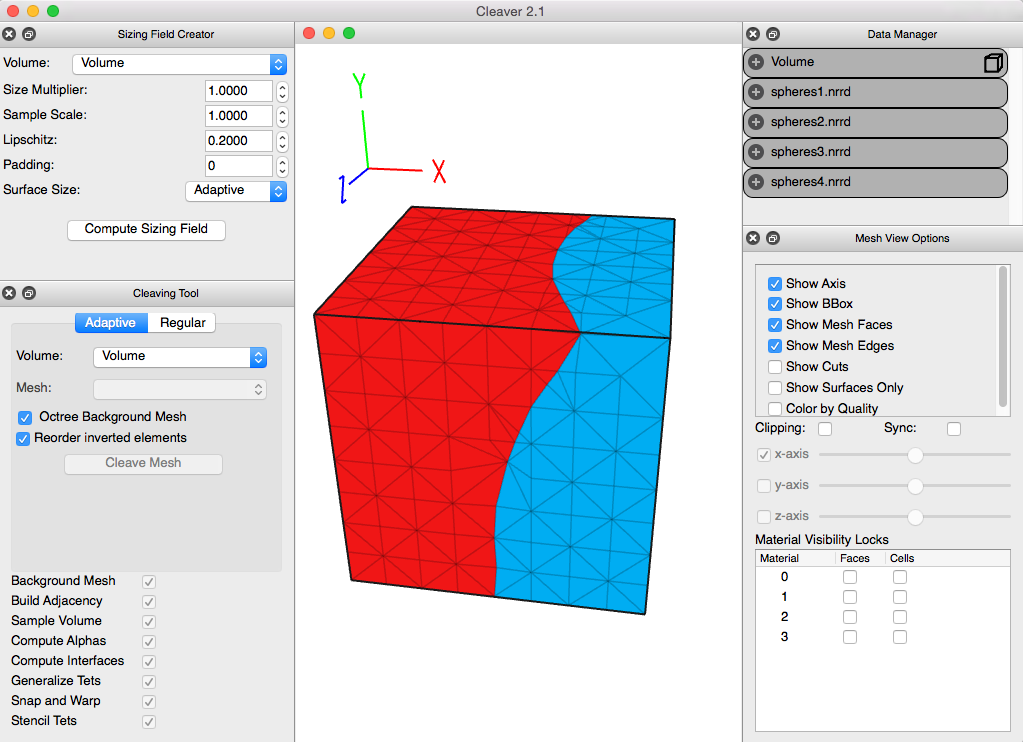
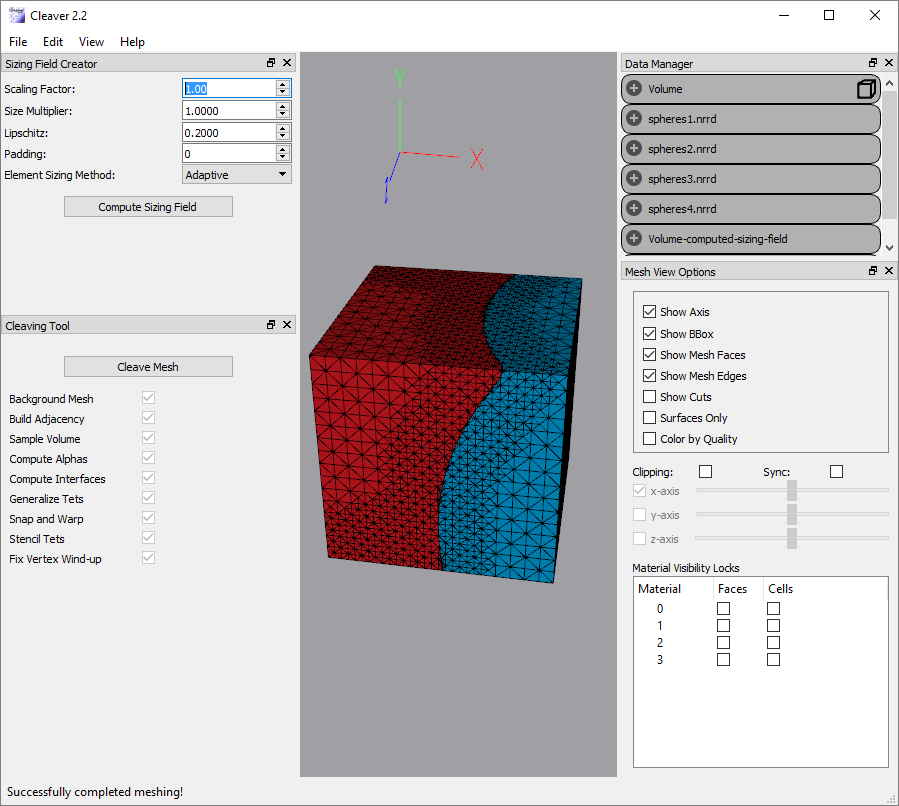
report angles to status bar. update images and readme. lock cells isn't quite right

diff --git a/src/gui/Application/ViewWidgets/MeshWindow.cpp b/src/gui/Application/ViewWidgets/MeshWindow.cpp
@@ -1585,15 +1585,14 @@ void MeshWindow::build_output_vbos()
       if (m2 < (int)m_bMaterialCellLock.size() && m_bMaterialCellLock[m2])
         force = true;
     }
-    if (m1 == m2) {
-      force = false;
-    }
+    //if (m1 == m2) {
+    //  force = false;
+    //}
     if (surface) {
       force = (m2 < (int)m_bMaterialFaceLock.size() && m_bMaterialFaceLock[m2]) ||
         (m1 < (int)m_bMaterialFaceLock.size() && m_bMaterialFaceLock[m1]);
     }
-    if (m_bClipping)
-    {
+    if (m_bClipping) {
       cleaver::vec3 n(m_4fvClippingPlane[0], m_4fvClippingPlane[1], m_4fvClippingPlane[2]);
       float d = m_4fvClippingPlane[3];
 

diff --git a/src/gui/Application/MainWindow.cpp b/src/gui/Application/MainWindow.cpp
@@ -311,8 +311,8 @@ void MainWindow::computeMeshAngles()
   cleaver::TetMesh *mesh = this->mesher_.getTetMesh();
   if(mesh) {
     mesh->computeAngles();
-    std::cout << "Min Angle: " << mesh->min_angle << " degrees." << std::endl;
-    std::cout << "Max Angle: " << mesh->max_angle << " degrees." << std::endl;
+    this->handleMessage("Min Angle: " + std::to_string(mesh->min_angle) + " degrees." +
+      "Max Angle: " + std::to_string(mesh->min_angle) + " degrees.");
   }
 }
 //*************Custom file dialog for segmentation check

diff --git a/README.md b/README.md
@@ -80,10 +80,10 @@ cmake ../src
 make
 ```
 
-**NOTE**: You may need to set your Qt build variables:
+**NOTE**: You may need to set your Qt/ITK build variables:
 
 ```bash
-cmake -DQt5Widgets_DIR="/usr/lib/Qt/5.3.0/gcc/lib/cmake/Qt5Widgets" -DQt5OpenGL_DIR="/usr/lib/Qt/5.3.0/gcc/lib/cmake/Qt5OpenGL"../src 
+cmake -DQt5Widgets_DIR="/path/to/Qt5Widgets" -DQt5OpenGL_DIR="/path/to/Qt5OpenGL" -DITK_DIR="/path/to/ITK" ../src 
 ```
 
 <h4>Windows</h4>
@@ -103,7 +103,7 @@ qt-creator, or pass library paths directly to command
 line like below, replacing paths with your library locations:<br/>
 
 ```bash
-cmake -G "NMake Makefiles" -DQt5Widgets_DIR="c:\Qt\5.3.0\5.3\msvc2013_opengl\lib\cmake\Qt5Widgets" -DQt5OpenGL_DIR="c:\Qt\5.3.0\5.3\msvc2013_opengl\lib\cmake\Qt5OpenGL" ..\src
+cmake -G "NMake Makefiles" cmake -DQt5Widgets_DIR="C:/path/to/Qt5Widgets" -DQt5OpenGL_DIR="C:/path/to/Qt5OpenGL" -DITK_DIR="C:/path/to/ITK" ..\src 
 ```
 
 <br/>
@@ -150,51 +150,39 @@ Command line flags:
                                   matlab, vtk, ply [Surface mesh only])
   -t [ --strict ]                 warnings become errors
   -S [ --segmentation ]           The input file is a segmentation file.
+  -B [ --blend_sigma ] arg        blending sigma for input(s) to remove alias
+                                  artifacts.
 ```
 <h3>Graphical Interface</h3>
 You can run the GUI from the command line, or by double-clicking it in a folder.
-<code> bin/cleaver-gui</code><br/>
+<code> gui/cleaver-gui</code><br/>
 You should see a window similar to this:<br/>
 <img src="https://raw.githubusercontent.com/SCIInstitute/Cleaver2/master/src/gui/Resources/application.png"><br/>
 Load the spheres in <code>src/test/test_data/input</code> 
 either with <code>ctrl+v</code> or <code>File -> Load Volume</code>,
-or load your own indicator functions or segmentation file (if included in the build).<br/>
+or load your own indicator functions or segmentation file. <br/>
+*Dialog Indicator Function Check* Click the check in the dialog if you are 
+importing individual indicator functions.<br/>
+*Blending Function Sigma* Choose a sigma for pre-process smoothing either
+your segmentation labels or indicator functions to avoid stair-step aliasing.<br/>
 **Sizing Field Creator**<br/>
 This tool allows a user to set parameters for the cleaving sizing field.<br/>
-*Volume* If you have loaded multiple volumes, you can switch between them here for the sizing field.<br/>
-*Size Multiplier* This is the multiplier for the sizing field creation.<br/>
-*Sample Scale* This is a tool to alter the sampling size of a volume. 
+*Scale Factor* This is a tool to alter the sampling size of a volume. 
 Smaller sampling creates coarser meshes faster.<br/>
+*Size Multiplier* This is the multiplier for the sizing field creation.<br/>
 *Lipschitz* This is the grading of the sizing field. <br/>
 *Padding* Added a volume buffer around the data. This is useful when volumes intersect near the boundary.<br/>
-*Surface Size* Select whether to adaptively resize tets for more detail at volume interactions, or 
+*Element Sizing Method* Select whether to adaptively resize tets for more detail at volume interactions, or 
 to keep tet sizes constant based on the sample scale.<br/>
 *Compute Sizing Field* Once you have your desired parameters, click this to create the sizing field. 
 This is assuming a volume has been loaded (ctrl+v or File->Import Volume). New information will be added 
 to the Data Manager at each step. If a sizing field is not created here, a default one will be 
 created for you automatically before cleaving. <br/>
 <img src="https://raw.githubusercontent.com/SCIInstitute/Cleaver2/master/src/gui/Resources/mesh.png"><br/>
-**Cleaving Tool : Adaptive**<br/>
-This tab runs the new adaptive technique of cleaving. Smaller tets occur near volume interactions 
-for more detail.<br/>
-*Volume* If you have loaded multiple volumes, you can switch between them here for cleaving.<br/>
-*Mesh* This feature is not currently available.<br/>
-*Octree Background Mesh* Check this to allow for octree creation of the background mesh.<br/>
-*Reorder inverted elements* Check this to ensure tets (after cleaving) have the proper vertex order.<br/>
+**Cleaving Tool**<br/>
+This tab runs the cleaving algorithm and displays steps that have completed.
 *Cleave Mesh* Run the cleaving algorithm. The steps are shown as complete with the check below. 
-The rendering window will also update with each step.<br/>
-**Cleaving Tool : Regular**<br/>
-This tab is for cleaving in a manner similar to Cleaver1. The sizing field is constant.<br/>
-*Volume* If you have loaded multiple volumes, you can switch between them here for cleaving.<br/>
-*Alpha Short* This is the distance (as a percent/100) of a short edge along a tet for which violations
-will be considered for warping.<br/>
-*Alpha Long* This is the distance (as a percent/100) of a long edge along a tet for which violations
-will be considered for warping.<br/>
-*Sample Scale* This is a tool to alter the sampling size of a volume. 
-Smaller sampling creates coarser meshes faster.<br/>
-*Padding* Added a volume buffer around the data. This is useful when volumes intersect near the boundary.<br/>
-*Construct Mesh* Run the cleaving algorithm. The steps are shown as complete with the check below. 
-The rendering window will also update with each step.<br/>
+The rendering window will also update with each applicable step.<br/>
 **Data Manager**<br/>
 This tool displays information about meshes, volumes, and sizing fields loaded and created. <br/>
 *Mesh* A mesh will have number of vertices, number of tetrahedra, and the min/max mesh boundaries.<br/>
@@ -218,20 +206,19 @@ faces will update once the clipping plane has stopped moving (mouse is released)
 *X-Y-Z Axes* Select which axis to clip the volume. The associated slider will permit clipping
 from one end of the bounding box to the other. <br/>
 *Material Visibility Locks* A list of the materials is here. When the faces of a material is locked, clipping
-is ignored for that material and it is always visible. Locked cells currently has no affect<br/>
+is ignored for that material and it is always visible. Locked cells refers to tets/volumes that
+will remain visible despite the clip.<br/>
 **File Menu**<br/>
 *Import Volume* Select 1-10 indicator function NRRDs, or 1 segmentation NRRD (if built in) to load in.<br/>
 *Import Sizing Field* Load a sizing field NRRD to use for a Volume.<br/>
 *Import Mesh* Import a tetgen mesh (*.node/*.ele pair) to visualize.<br/>
 *Export Mesh* Write the current mesh to file in either node/ele (tetgen) format, or VTK format. <br/>
-*Close* Close the current mesh rendering. (Known to have issues). <br/>
-*Close All* Close all the mesh renderings. (Known to have issues). <br/>
 **Edit Menu**<br/>
 *Remove External Tets* Removes tets that were created as padding around the volume.<br/>
 *Remove Locked Tets* Removes tets that were not warped during cleaving.<br/>
-**View** Reset, Load, and Save the current camera view of the mesh. <br/>
-**Tools** Toggle view of the Sizing Field, Cleaving, Data, and Mesh View tools. <br/> 
-**Window** Select which render window to view. (Known to have issues). <br/>
+*Dihedral Angles* Computes the min/max Dihedral angles. And displays them in the status bar.<br/>
+**View** Toggle view of the Sizing Field, Cleaving, Data, and Mesh View tools. <br/> 
+**Help** Show information abour Cleaver2. <br/> 
 <h3>Cleaver Library</h3>
 To include the cleaver library, you should link to the library built, <code>libcleaver.a</code> or
 <code>cleaver.lib</code> and include the following headers in your project: <br/>
